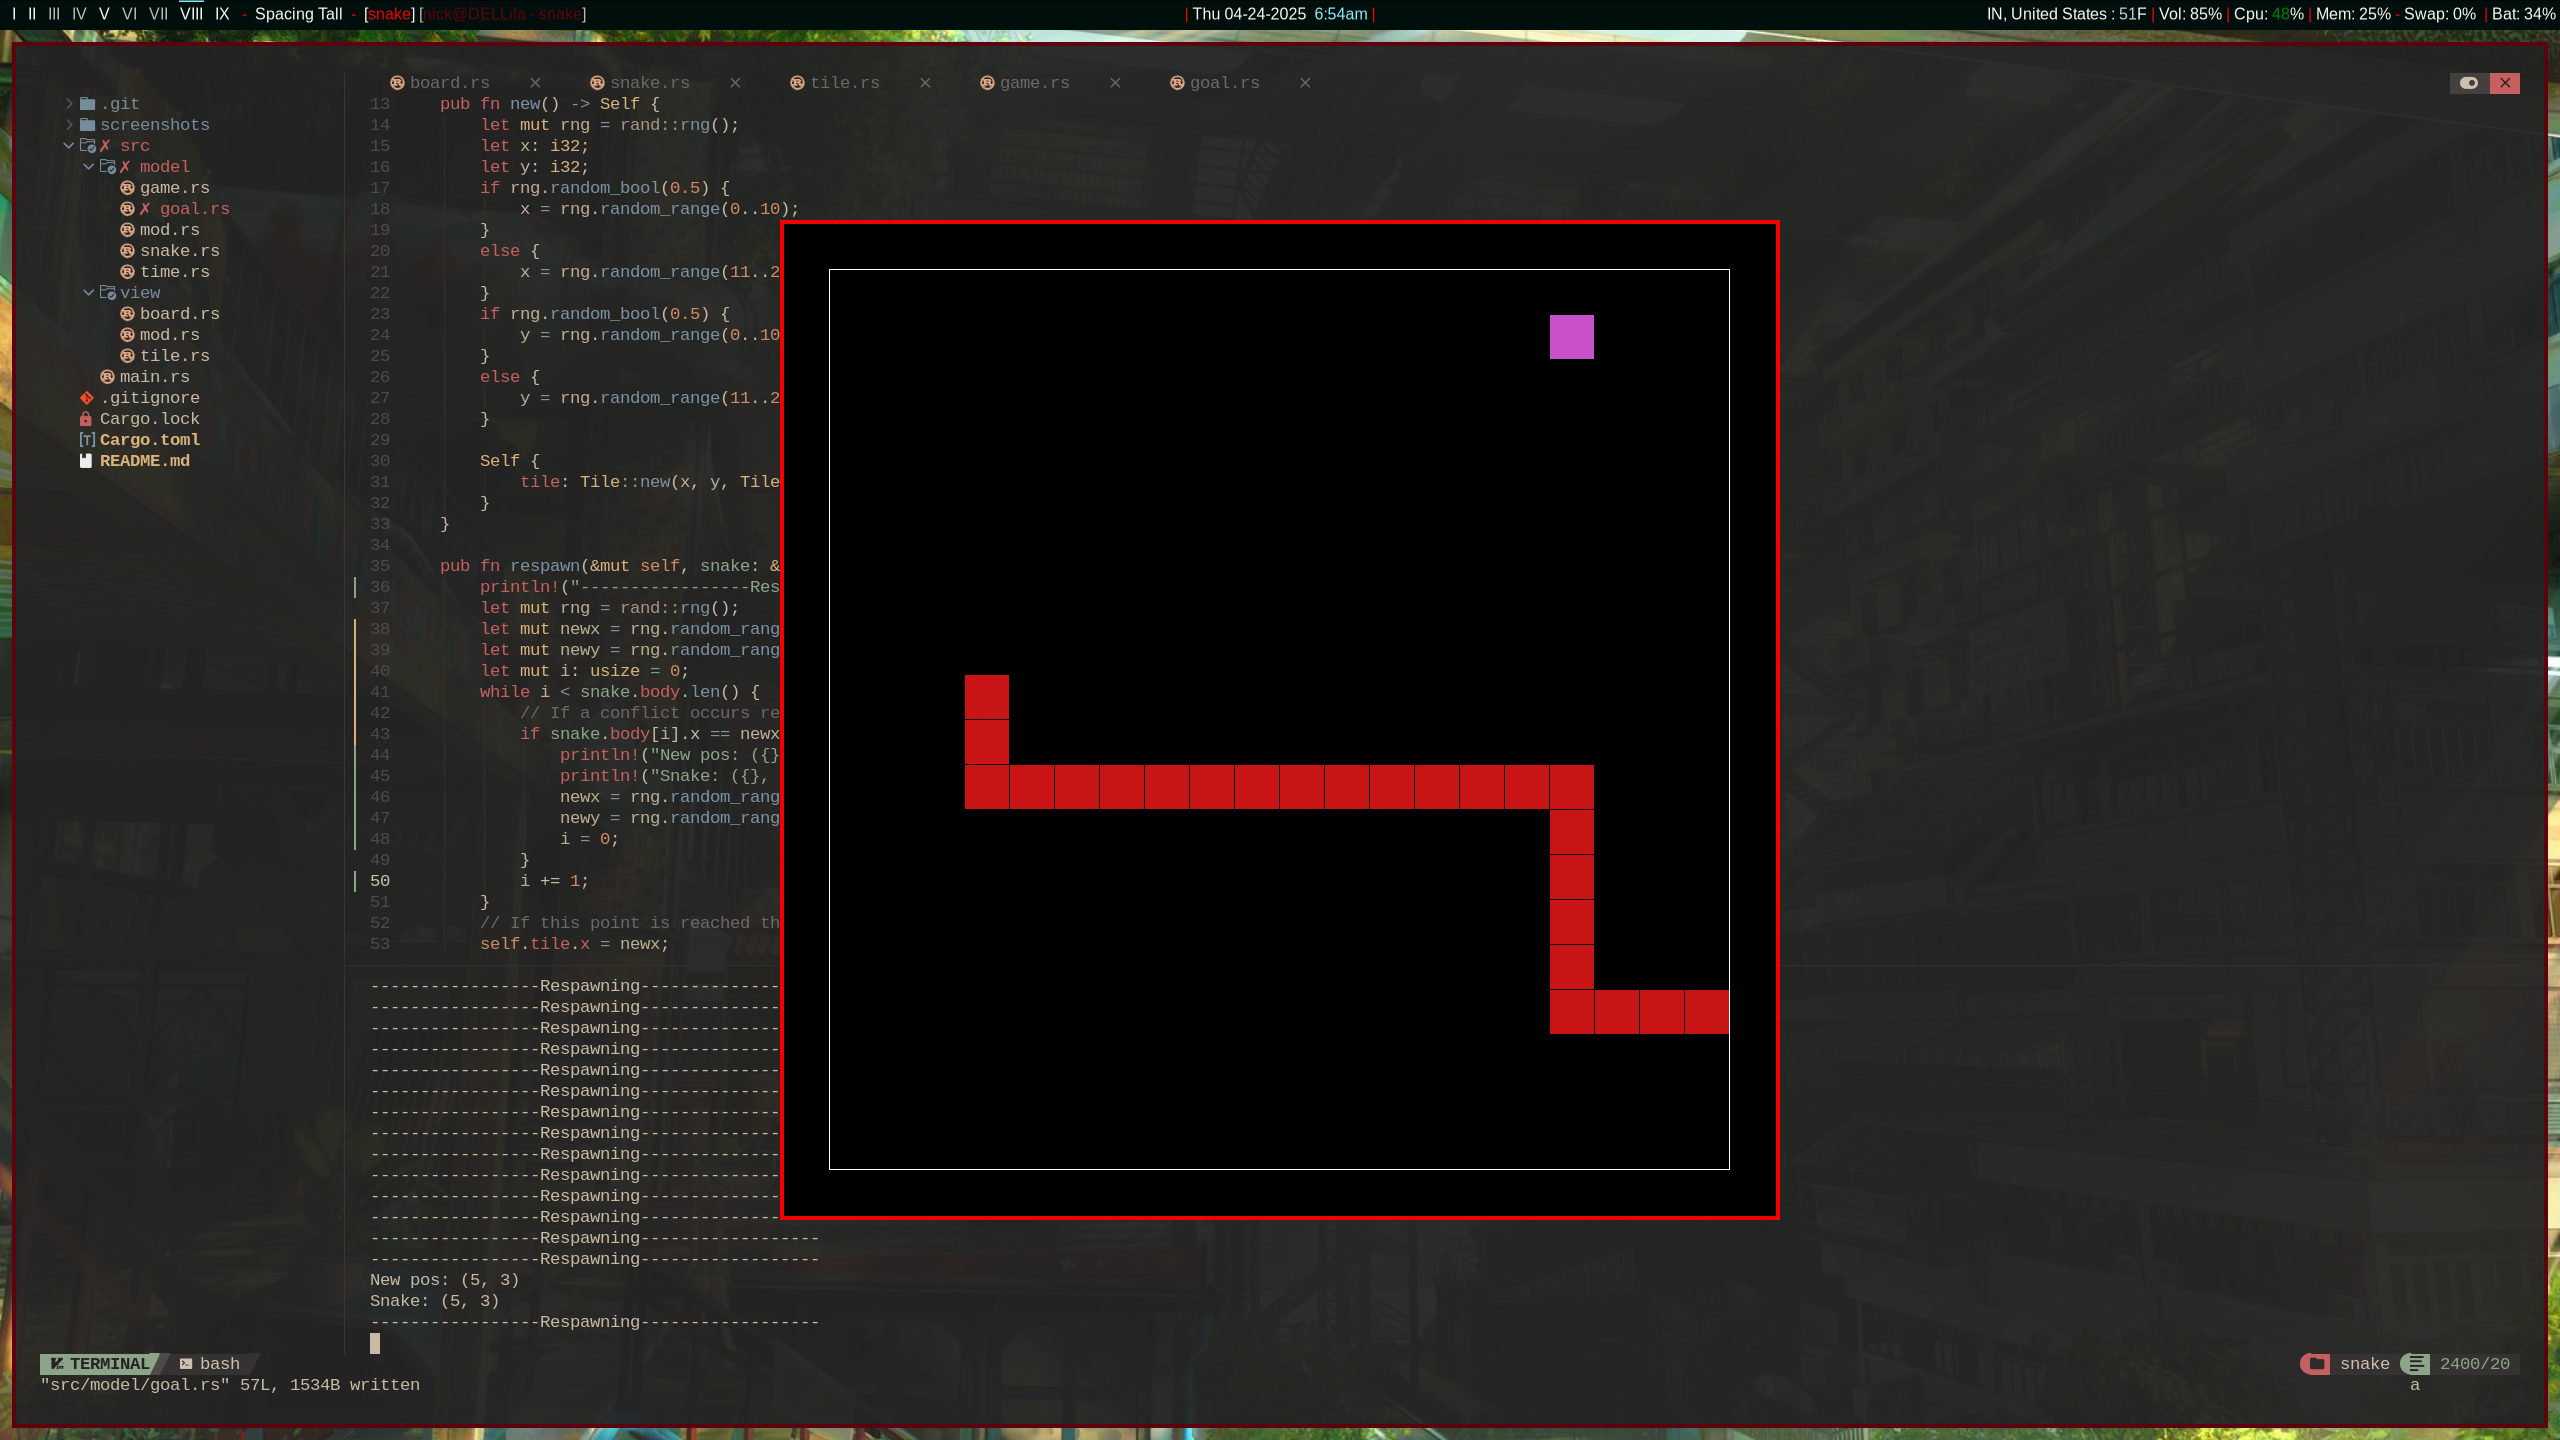
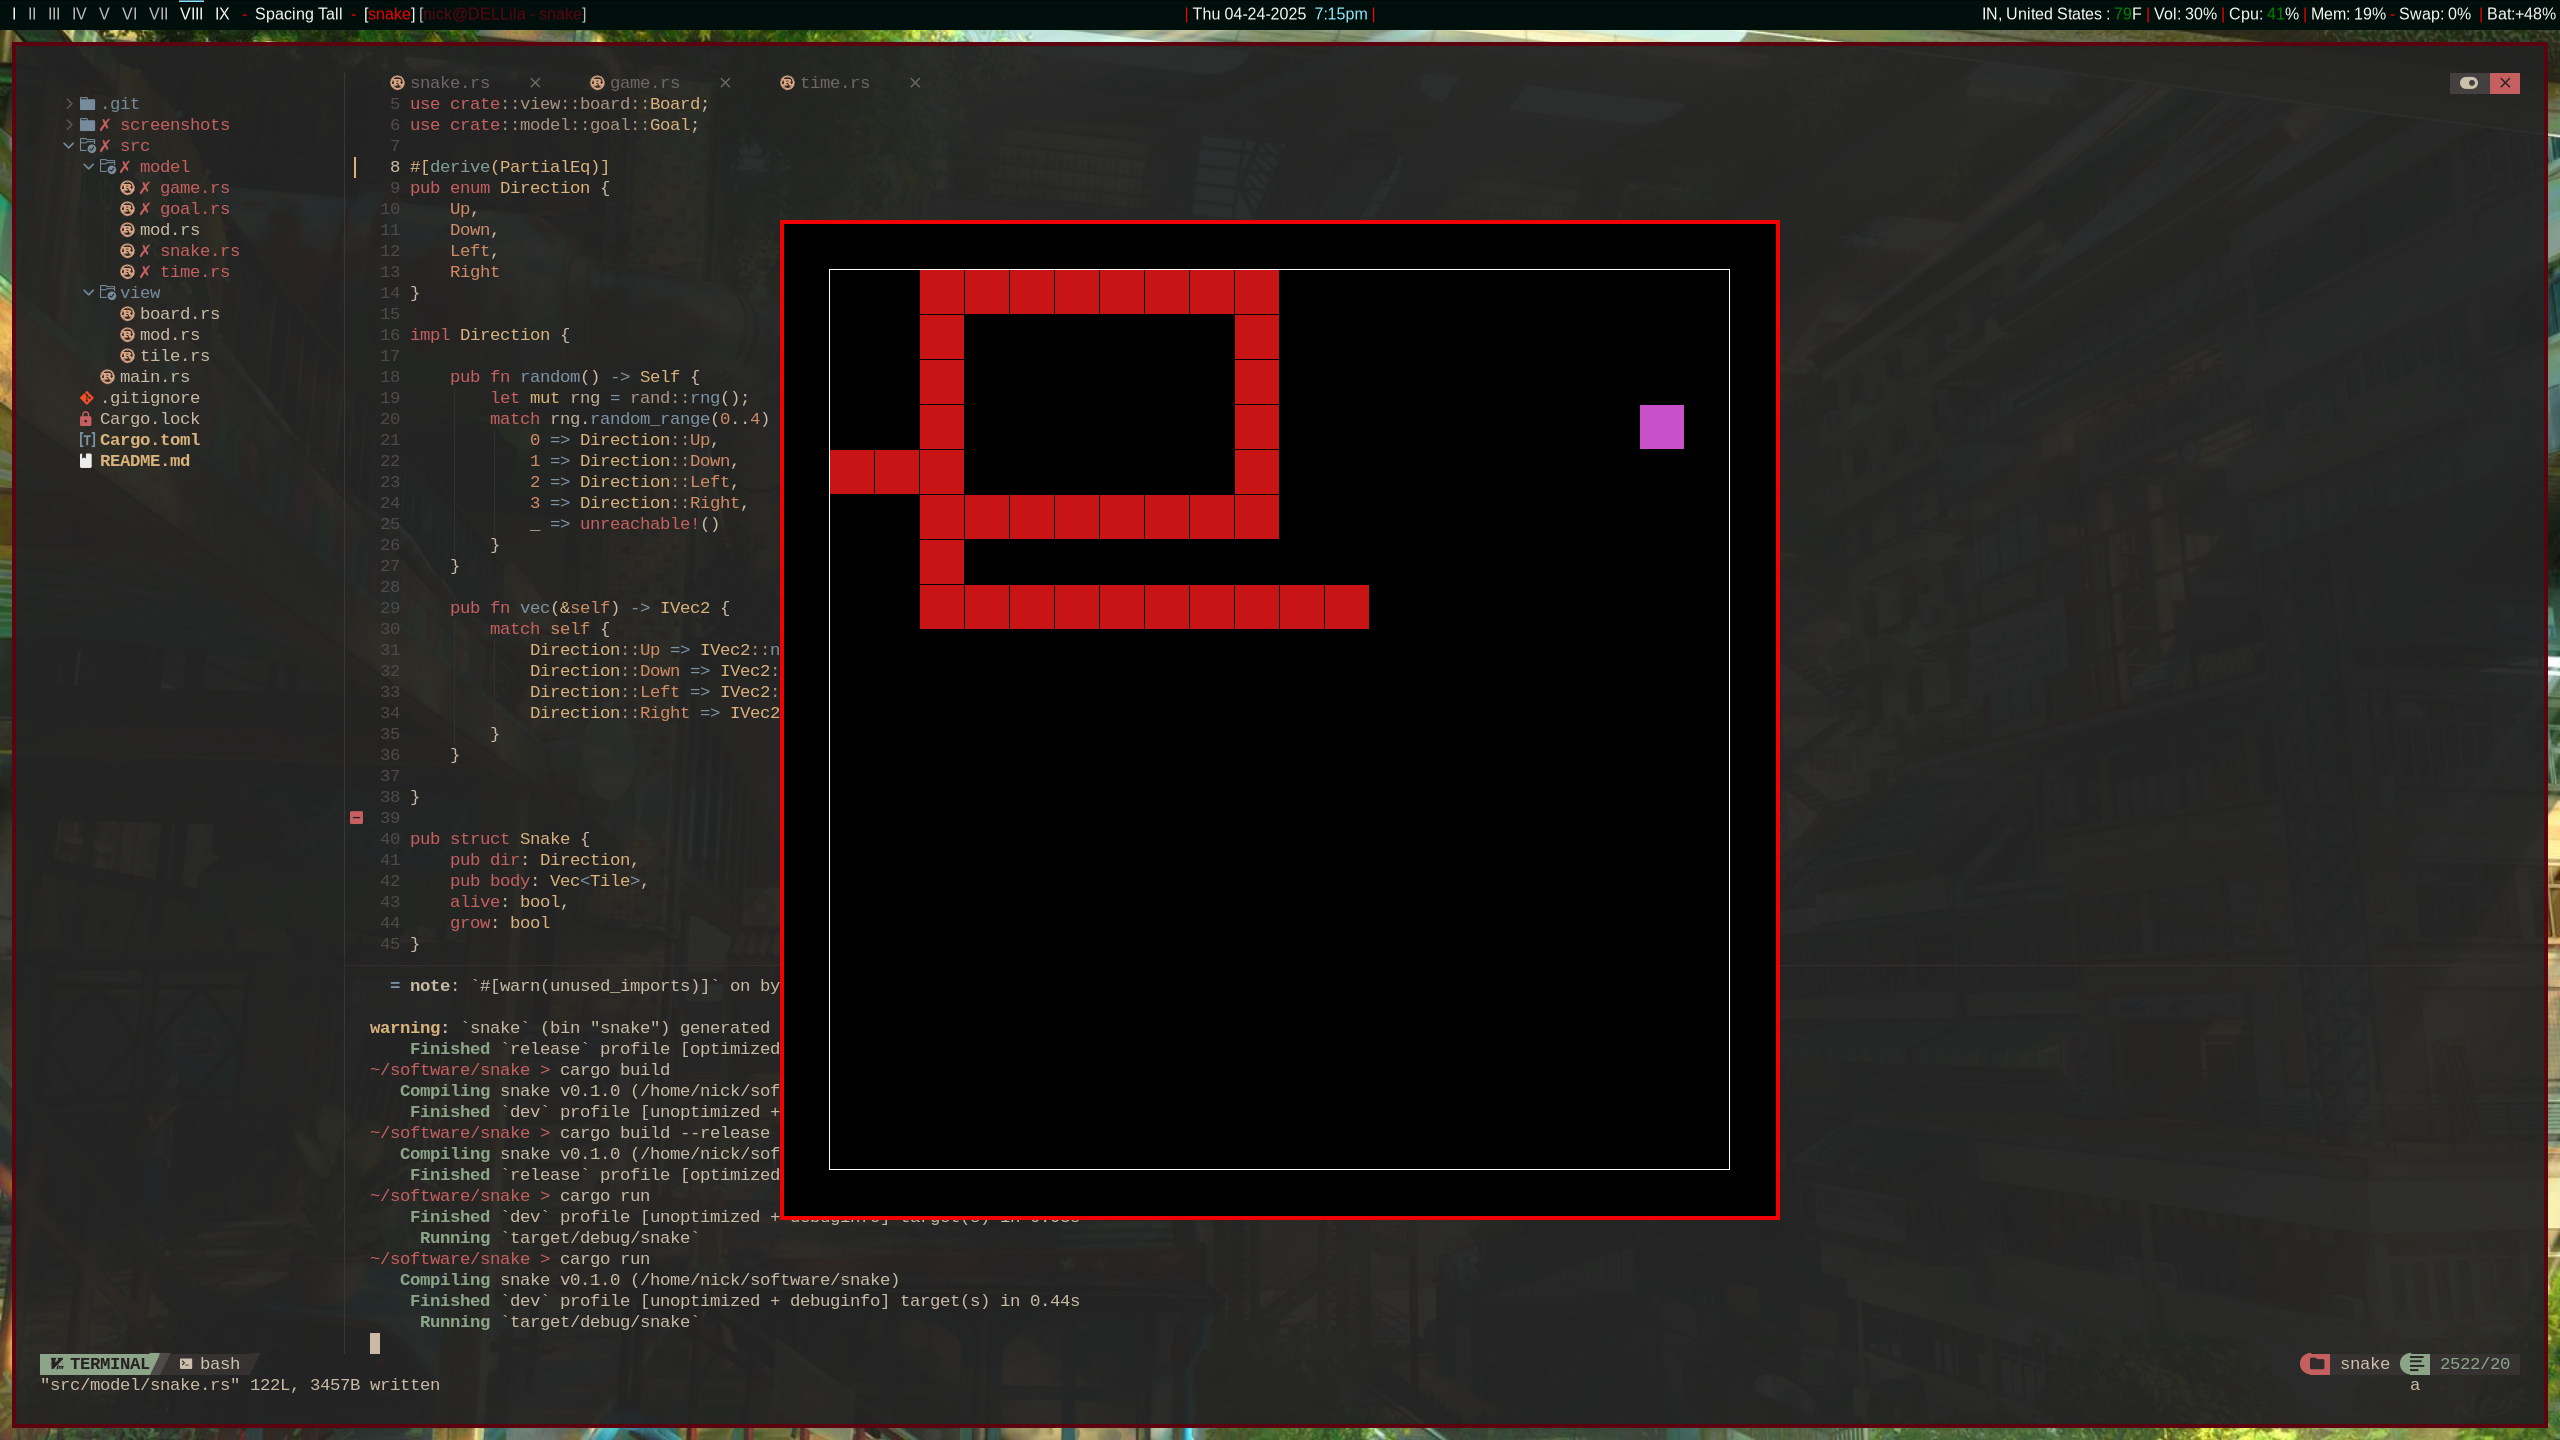
snake now dies when it eats itself and it cannot move backwards into itself

diff --git a/src/model/game.rs b/src/model/game.rs
@@ -44,15 +44,13 @@ impl Game {
     }
 
     pub fn update(&mut self) {
-        // TODO: Update according to game logic
-        //
         // If 50 milliseconds has passed since last update, update
         if !self.ft.mark(100) {
             return;
         }
         
         if self.snake.alive() {
-            if self.snake.within_board() {
+            if self.snake.within_board() && !self.snake.eating_tail() {
                 self.snake.try_eat_goal(&mut self.goal);
                 self.snake.move_once(&mut self.board);
             }
@@ -68,17 +66,28 @@ impl Game {
     pub fn handle_key_press(&mut self, key: sdl2::keyboard::Keycode)
     {
         match key {
+            // Check for arrow keys and handle them
+            // If the arrow key that is pressed is opposite of the
+            // current direction then do nothing (otherwise it would kill the snake)
             sdl2::keyboard::Keycode::Up => {
-                self.snake.dir = Direction::Up;
+                if self.snake.dir != Direction::Down {
+                    self.snake.dir = Direction::Up;
+                }
             },
             sdl2::keyboard::Keycode::Down => {
-                self.snake.dir = Direction::Down;
+                if self.snake.dir != Direction::Up {
+                    self.snake.dir = Direction::Down;
+                }
             },
             sdl2::keyboard::Keycode::Left => {
-                self.snake.dir = Direction::Left;
+                if self.snake.dir != Direction::Right {
+                    self.snake.dir = Direction::Left;
+                }
             },
             sdl2::keyboard::Keycode::Right => {
-                self.snake.dir = Direction::Right;
+                if self.snake.dir != Direction::Left {
+                    self.snake.dir = Direction::Right;
+                }
             },
             _ => {/*Do nothing*/}
         }

diff --git a/src/model/snake.rs b/src/model/snake.rs
@@ -5,7 +5,7 @@ use crate::view::tile::{Tile, TileType};
 use crate::view::board::Board;
 use crate::model::goal::Goal;
 
-
+#[derive(PartialEq)]
 pub enum Direction {
     Up,
     Down,
@@ -36,10 +36,6 @@ impl Direction {
     }
 
 }
-
-// Do I create an enum Direction and use a speed
-// or do I do what I'm doing and use glam::Vec2.
-// The second way sounds more difficult with little to no return on investment
 
 pub struct Snake {
     pub dir: Direction,
@@ -77,6 +73,17 @@ impl Snake {
 
         return nextx_head >= 0 && nextx_head < 20
             && nexty_head >= 0 && nexty_head < 20;
+    }
+
+    pub fn eating_tail(&self) -> bool {
+        let new_head_pos = (self.body[0].x + self.dir.vec().x, 
+            self.body[0].y + self.dir.vec().y);
+        for tile in self.body.clone() {
+            if new_head_pos.0 == tile.x && new_head_pos.1 == tile.y {
+                return true; // next update will eat tail
+            }
+        }
+        return false; // next update will not eat tail
     }
 
     pub fn try_eat_goal(&mut self, goal: &mut Goal)

diff --git a/src/model/goal.rs b/src/model/goal.rs
@@ -33,7 +33,6 @@ impl Goal {
     }
 
     pub fn respawn(&mut self, snake: &Snake) {
-        println!("-----------------Respawning------------------");
         let mut rng = rand::rng();
         let mut newx = rng.random_range(0..20);
         let mut newy = rng.random_range(0..20);
@@ -41,8 +40,6 @@ impl Goal {
         while i < snake.body.len() {
             // If a conflict occurs regenerate the position and try again
             if snake.body[i].x == newx && snake.body[i].y == newy {
-                println!("New pos: ({}, {})", newx, newy);
-                println!("Snake: ({}, {})", snake.body[i].x, snake.body[i].y);
                 newx = rng.random_range(0..20);
                 newy = rng.random_range(0..20);
                 i = 0;

diff --git a/src/model/time.rs b/src/model/time.rs
@@ -1,4 +1,4 @@
-use std::time::{Instant, Duration};
+use std::time::Instant;
 
 pub struct FrameTimer {
     last_frame: Instant
